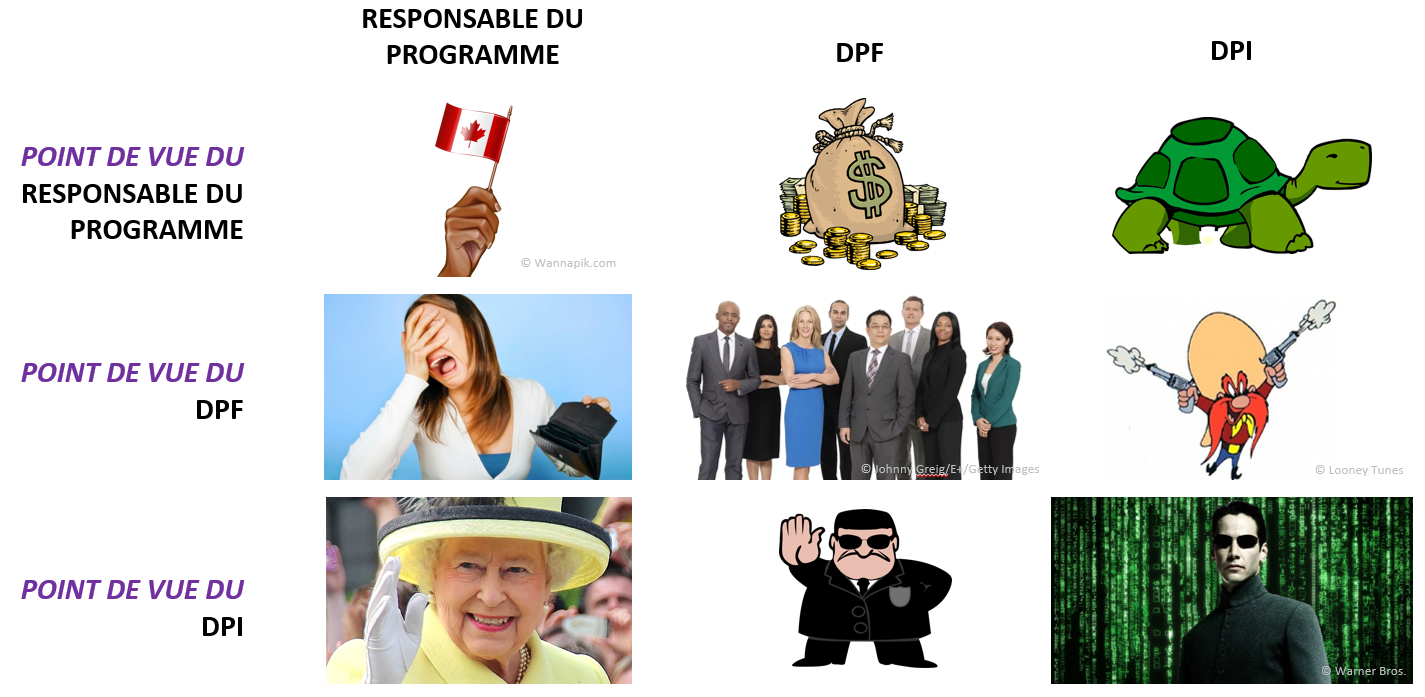
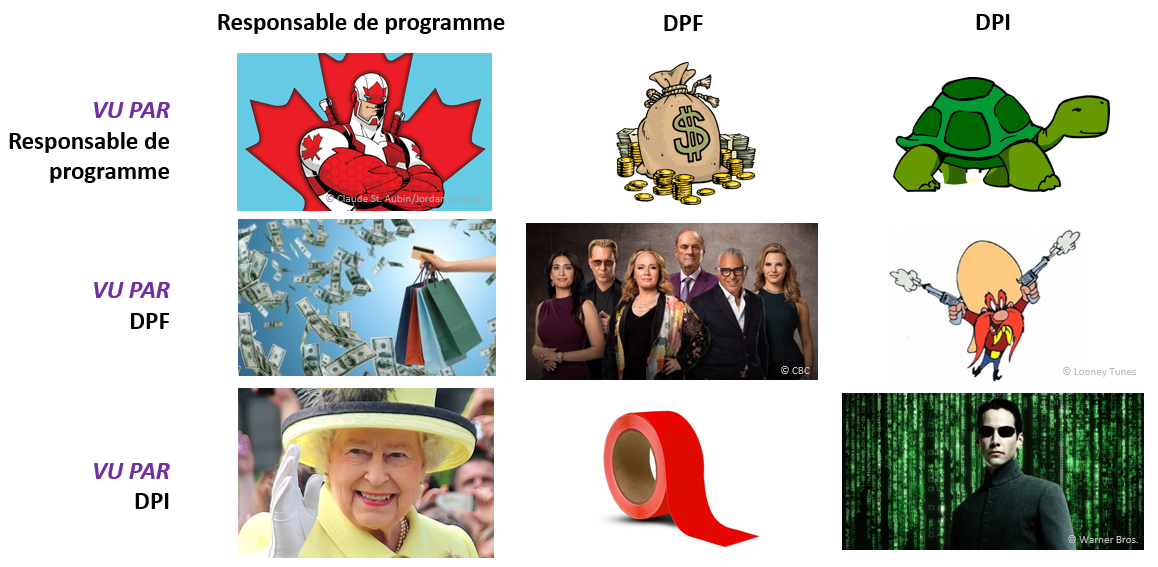
changed two images to something nicer (#2000)
* changed two images to something nicer

* Update to the alt text for the updated image

* french translation of alt text

diff --git a/_posts/fr/2021-10-15-gestion-de-produit-partie-2.md b/_posts/fr/2021-10-15-gestion-de-produit-partie-2.md
@@ -73,7 +73,7 @@ Les incitatifs des responsables des programmes sont des résultats, alors que le
 <div style="display: block; width: inherit; text-align: center; line-height: 3;">
     <a href="/ITStrategy/assets/images/program_officials-cio-cfo_with_copyrights-fr.png" style="display: block">
         <img src = "{{ site.baseurl }}/assets/images/program_officials-cio-cfo_with_copyrights-fr.png"
-        alt = "Cette image est un tableau trois par trois montrant les différentes perspectives que le responsable de programme, le directeur financier et le directeur informatique ont les uns des autres."
+        alt = "Cette image est un tableau trois par trois montrant les différentes perspectives que le responsable de programme, le DPF et le DPI ont les uns des autres. La première ligne montre que le responsable de programme se voit comme le capitaine Canada, le DPF comme un sac d'argent et le DPI comme une tortue. La deuxième rangée montre que le DPF voit le Responsable du programme comme quelqu'un qui dépense beaucoup d'argent (image d'une main tenant des sacs à provisions, une carte de crédit et des billets de banque en l'air), il se voit comme les dragons de l'émission dans l'oeil du drdagon, et il voit le DPI comme un cow-boy. La troisième rangée montre que le DPI voit le responsable de programme comme une figure de proue (image de la reine), le DPF comme quelqu'un qui crée de la paperasserie et le DPI comme Neo du film la Matrice."
         style="width: 800px; height: inherit;"
         />
     </a>

diff --git a/_posts/en/2021-10-15-product-management-part-2.md b/_posts/en/2021-10-15-product-management-part-2.md
@@ -70,7 +70,7 @@ Program Officials’ incentives are results. While CIOs’ and CFOs’ are about
 <div style="display: block; width: inherit; text-align: center; line-height: 3;">
     <a href="/ITStrategy/assets/images/program_officials-cio-cfo_with_copyrights.png" style="display: block">
         <img src = "{{ site.baseurl }}/assets/images/program_officials-cio-cfo_with_copyrights.png"
-        alt = "This image is a three by three table showing the different perspectives that each of the Program Official, CFO, and CIO have of each other."
+        alt = "This image is a three by three table showing the different perspectives that each of the Program Official, CFO, and CIO have of each other. The first row shows that the Program Official sees themselves as Captain Canada, they see the CFO as a bag of money and the CIO as a tortoise. The second row shows that the CFO sees the Program Official as someone who spends a lot of money (image is of a hand holding shopping bags, a credit card and dollar bills in the air), they see themselves as the dragons from Dragons Den, and they see the CIO as a cowboy. The third row shows that the CIO sees the Program Official as a figure head (image is of the queen), the CFO as somone who creates red tape and the CIO as Neo from the Matrix."
         style="width: 800px; height: inherit;"
         />
     </a>
